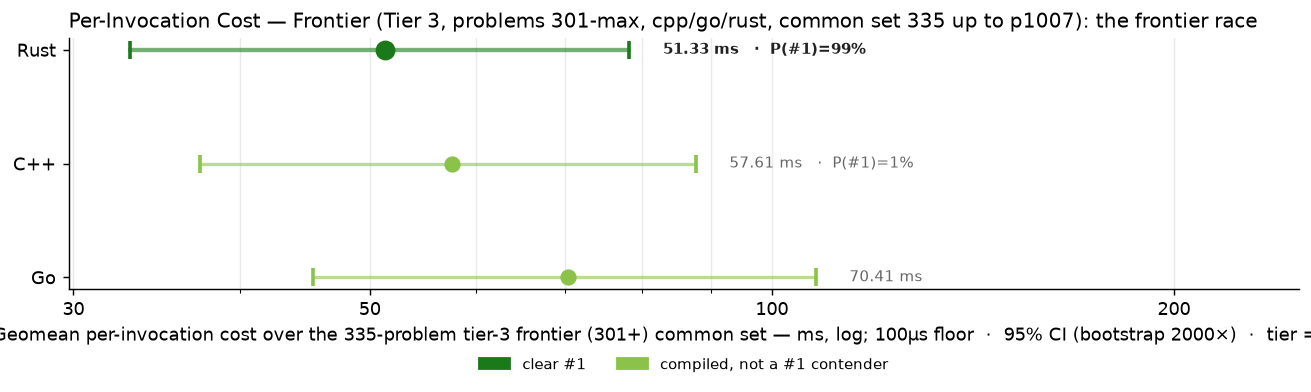
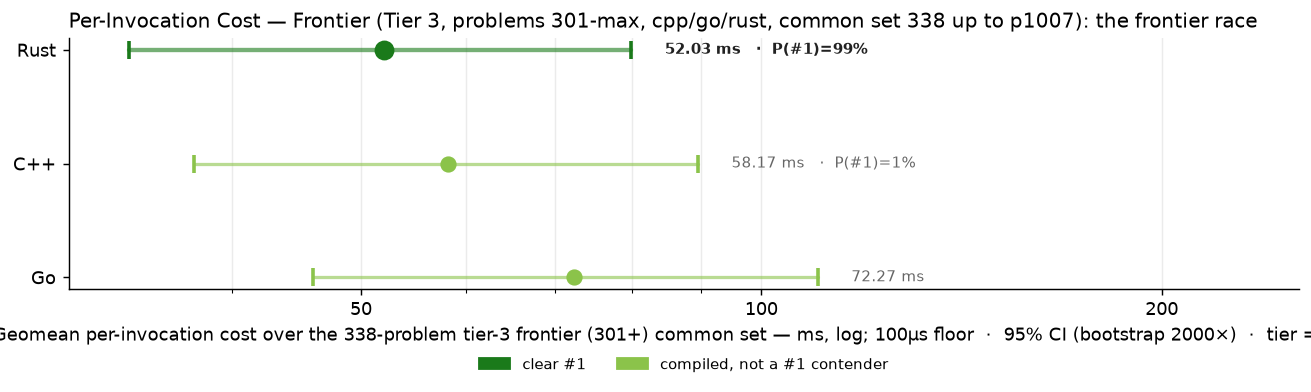
bench: p0982, p0987, p0993 tier-3 solves

diff --git a/RESULTS.md b/RESULTS.md
@@ -1,6 +1,6 @@
 # Project Euler — Cross-Language Benchmarks
 
-> **Scope: 4621 in-scope cells across 1007 problems × tiered languages — 3621 measured (78.4% coverage).**
+> **Scope: 4621 in-scope cells across 1007 problems × tiered languages — 3630 measured (78.6% coverage).**
 > The cross-language ranking below is computed over the **200-problem common set** (problems in 1-200 where every language has a passing measurement) — the apples-to-apples Foundation comparison surface.  Per-tier rankings and coverage detail appear further below.
 > Growing carefully — each new problem and language is audited for state-leak
 > safety, verified for answer correctness, and added only when it cleanly fits the
@@ -71,15 +71,15 @@ Same scatter as the Foundation chart, restricted to the tier-2 active languages 
 
 The frontier verification trio — C++, Go, Rust — on problems above 300. 3-way cross-language agreement is the verification protocol (strictly stronger than 2-way; see JOURNEY.md "Tier Reframing" episode for the p254 lesson that motivated it). Python and Zig are explicitly out of this tier — python's wall cost makes it impractical at level 5+, and zig's role caps at Tier 2.
 
-### Per-Invocation Cost (Common Set, 335 of ≤707 problems in scope)
+### Per-Invocation Cost (Common Set, 338 of ≤707 problems in scope)
 
 ![Per-Invocation Cost — Tier 3](charts/per_iter_total_tier3.png)
 
-| Rank | Language | Geomean (335-problem common set) | Total (sum) | Lines of code | vs Fastest |
+| Rank | Language | Geomean (338-problem common set) | Total (sum) | Lines of code | vs Fastest |
 |------|----------|--------------------:|------------:|--------------:|-----------:|
-| 1 | **Rust** | 51.33 ms | 1108.17 s | 41,568 | 1.00× |
-| 2 | **C++** | 57.61 ms | 1228.32 s | 37,176 | 1.12× |
-| 3 | **Go** | 70.41 ms | 1388.35 s | 43,703 | 1.37× |
+| 1 | **Rust** | 52.03 ms | 1113.55 s | 43,033 | 1.00× |
+| 2 | **C++** | 58.17 ms | 1230.08 s | 38,045 | 1.12× |
+| 3 | **Go** | 72.27 ms | 1399.28 s | 44,958 | 1.39× |
 
 ### Speed vs Code Size
 

diff --git a/per_problem/per_problem_0901-1000.md b/per_problem/per_problem_0901-1000.md
@@ -89,18 +89,18 @@ in tier-1 display order (native → managed → interpreted).
 | **p0979** | — | — | — |
 | **p0980** | 180.73 ms | 178.05 ms | 224.65 ms |
 | **p0981** | 78.16 ms | 29.62 ms† | 27.66 ms |
-| **p0982** | — | — | — |
+| **p0982** | 6.89 ms† | 3.30 ms | 81.46 ms |
 | **p0983** | — | — | — |
 | **p0984** | — | — | — |
 | **p0985** | 875 ns | 958 ns† | 3.0 µs† |
 | **p0986** | — | — | — |
-| **p0987** | — | — | — |
+| **p0987** | 859.89 ms | 900.55 ms | 5.80 s |
 | **p0988** | 49.5 µs | 161.5 µs† | 1.37 ms† |
 | **p0989** | — | — | — |
 | **p0990** | — | — | — |
 | **p0991** | 25.91 ms† | 26.74 ms† | 26.90 ms† |
 | **p0992** | 19.64 ms† | 22.46 ms† | 22.43 ms† |
-| **p0993** | — | — | — |
+| **p0993** | 886.78 ms | 4.48 s | 5.05 s |
 | **p0994** | — | — | — |
 | **p0995** | — | — | — |
 | **p0996** | — | — | — |
